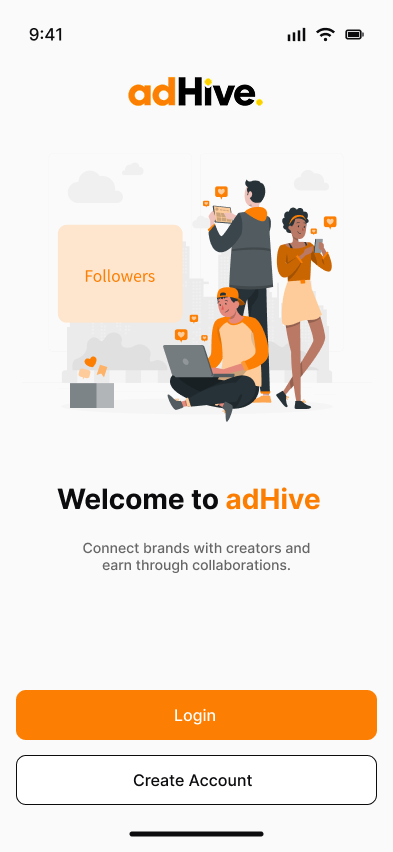
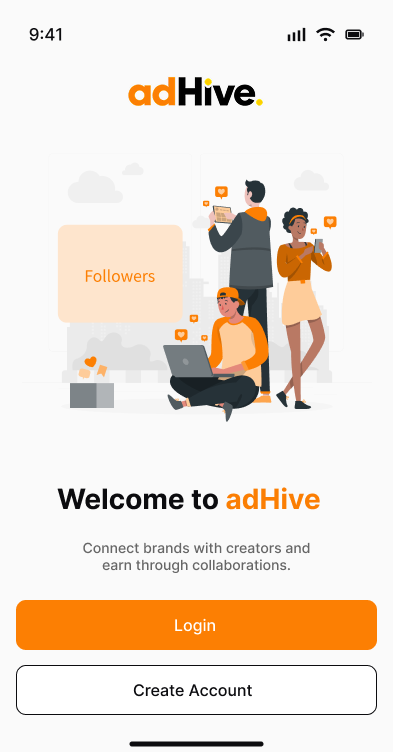
SplashScreen

diff --git a/src/app/page.tsx b/src/app/page.tsx
@@ -145,7 +145,7 @@ function ShareEarnSVG() {
     { x: 200, y: 300, c: "#22c55e" },
   ];
   return (
-    <svg viewBox="0 0 360 420" fill="none" xmlns="http://www.w3.org/2000/svg" className="w-full h-auto block">
+    <svg viewBox="48 8 264 408" fill="none" xmlns="http://www.w3.org/2000/svg" className="block h-[200px] sm:h-[280px] lg:h-[380px] w-auto drop-shadow-[0_20px_50px_rgba(0,0,0,0.15)]">
       <rect x="56" y="16" width="248" height="392" rx="36" fill="#18181b" />
       <rect x="68" y="28" width="224" height="368" rx="28" fill="#ffffff" />
       <rect x="150" y="38" width="60" height="8" rx="4" fill="#3f3f46" />
@@ -689,18 +689,26 @@ export default function Home() {
             initial={{ opacity: 0, scale: 0.95 }}
             animate={{ opacity: 1, scale: 1 }}
             transition={{ duration: 0.6, delay: 0.2 }}
-            className="relative flex w-full items-end justify-center gap-3 sm:gap-4 lg:block lg:h-[520px] overflow-x-clip min-h-[200px] sm:min-h-[260px] lg:min-h-0"
+            className="relative flex w-full items-end justify-center gap-6 sm:gap-8 min-h-[260px] sm:min-h-[320px] lg:min-h-0"
             style={{ perspective: "1000px" }}
           >
             <motion.div animate={{ y: [-10, 10, -10] }} transition={{ repeat: Infinity, duration: 6, ease: "easeInOut" }}
-              className="relative z-20 w-[44%] max-w-[155px] sm:w-[46%] sm:max-w-[230px] shrink-0 overflow-hidden rounded-2xl border border-white/60 bg-white shadow-[0_20px_50px_rgba(0,0,0,0.15)] lg:absolute lg:-left-4 lg:-top-4 lg:w-[360px] lg:max-w-none lg:shadow-[0_30px_60px_rgba(0,0,0,0.2)]"
+              className="relative z-20 shrink-0 overflow-hidden rounded-2xl border border-black/5 bg-white shadow-sm"
             >
-              <WelcomeScreenSVG />
+              <img
+                src="/images/WELCOME SCREEN.png"
+                alt="adHive welcome screen"
+                className="block h-[200px] sm:h-[280px] lg:h-[380px] w-auto"
+              />
             </motion.div>
             <motion.div animate={{ y: [10, -10, 10] }} transition={{ repeat: Infinity, duration: 7, ease: "easeInOut", delay: 1 }}
-              className="relative z-10 w-[44%] max-w-[155px] sm:w-[46%] sm:max-w-[230px] shrink-0 overflow-hidden rounded-2xl border border-white/60 bg-white shadow-[0_20px_50px_rgba(0,0,0,0.15)] lg:absolute lg:right-0 lg:top-10 lg:w-[360px] lg:max-w-none"
+              className="relative z-10 shrink-0 overflow-hidden rounded-2xl border border-black/10 bg-[#0c0c0e] shadow-sm"
             >
-              <ShareEarnSVG />
+              <img
+                src="/images/splashscreen.jpeg"
+                alt="adHive splash screen"
+                className="block h-[200px] sm:h-[280px] lg:h-[380px] w-[105px] sm:w-[146px] lg:w-[199px] object-contain"
+              />
             </motion.div>
           </motion.div>
         </div>
